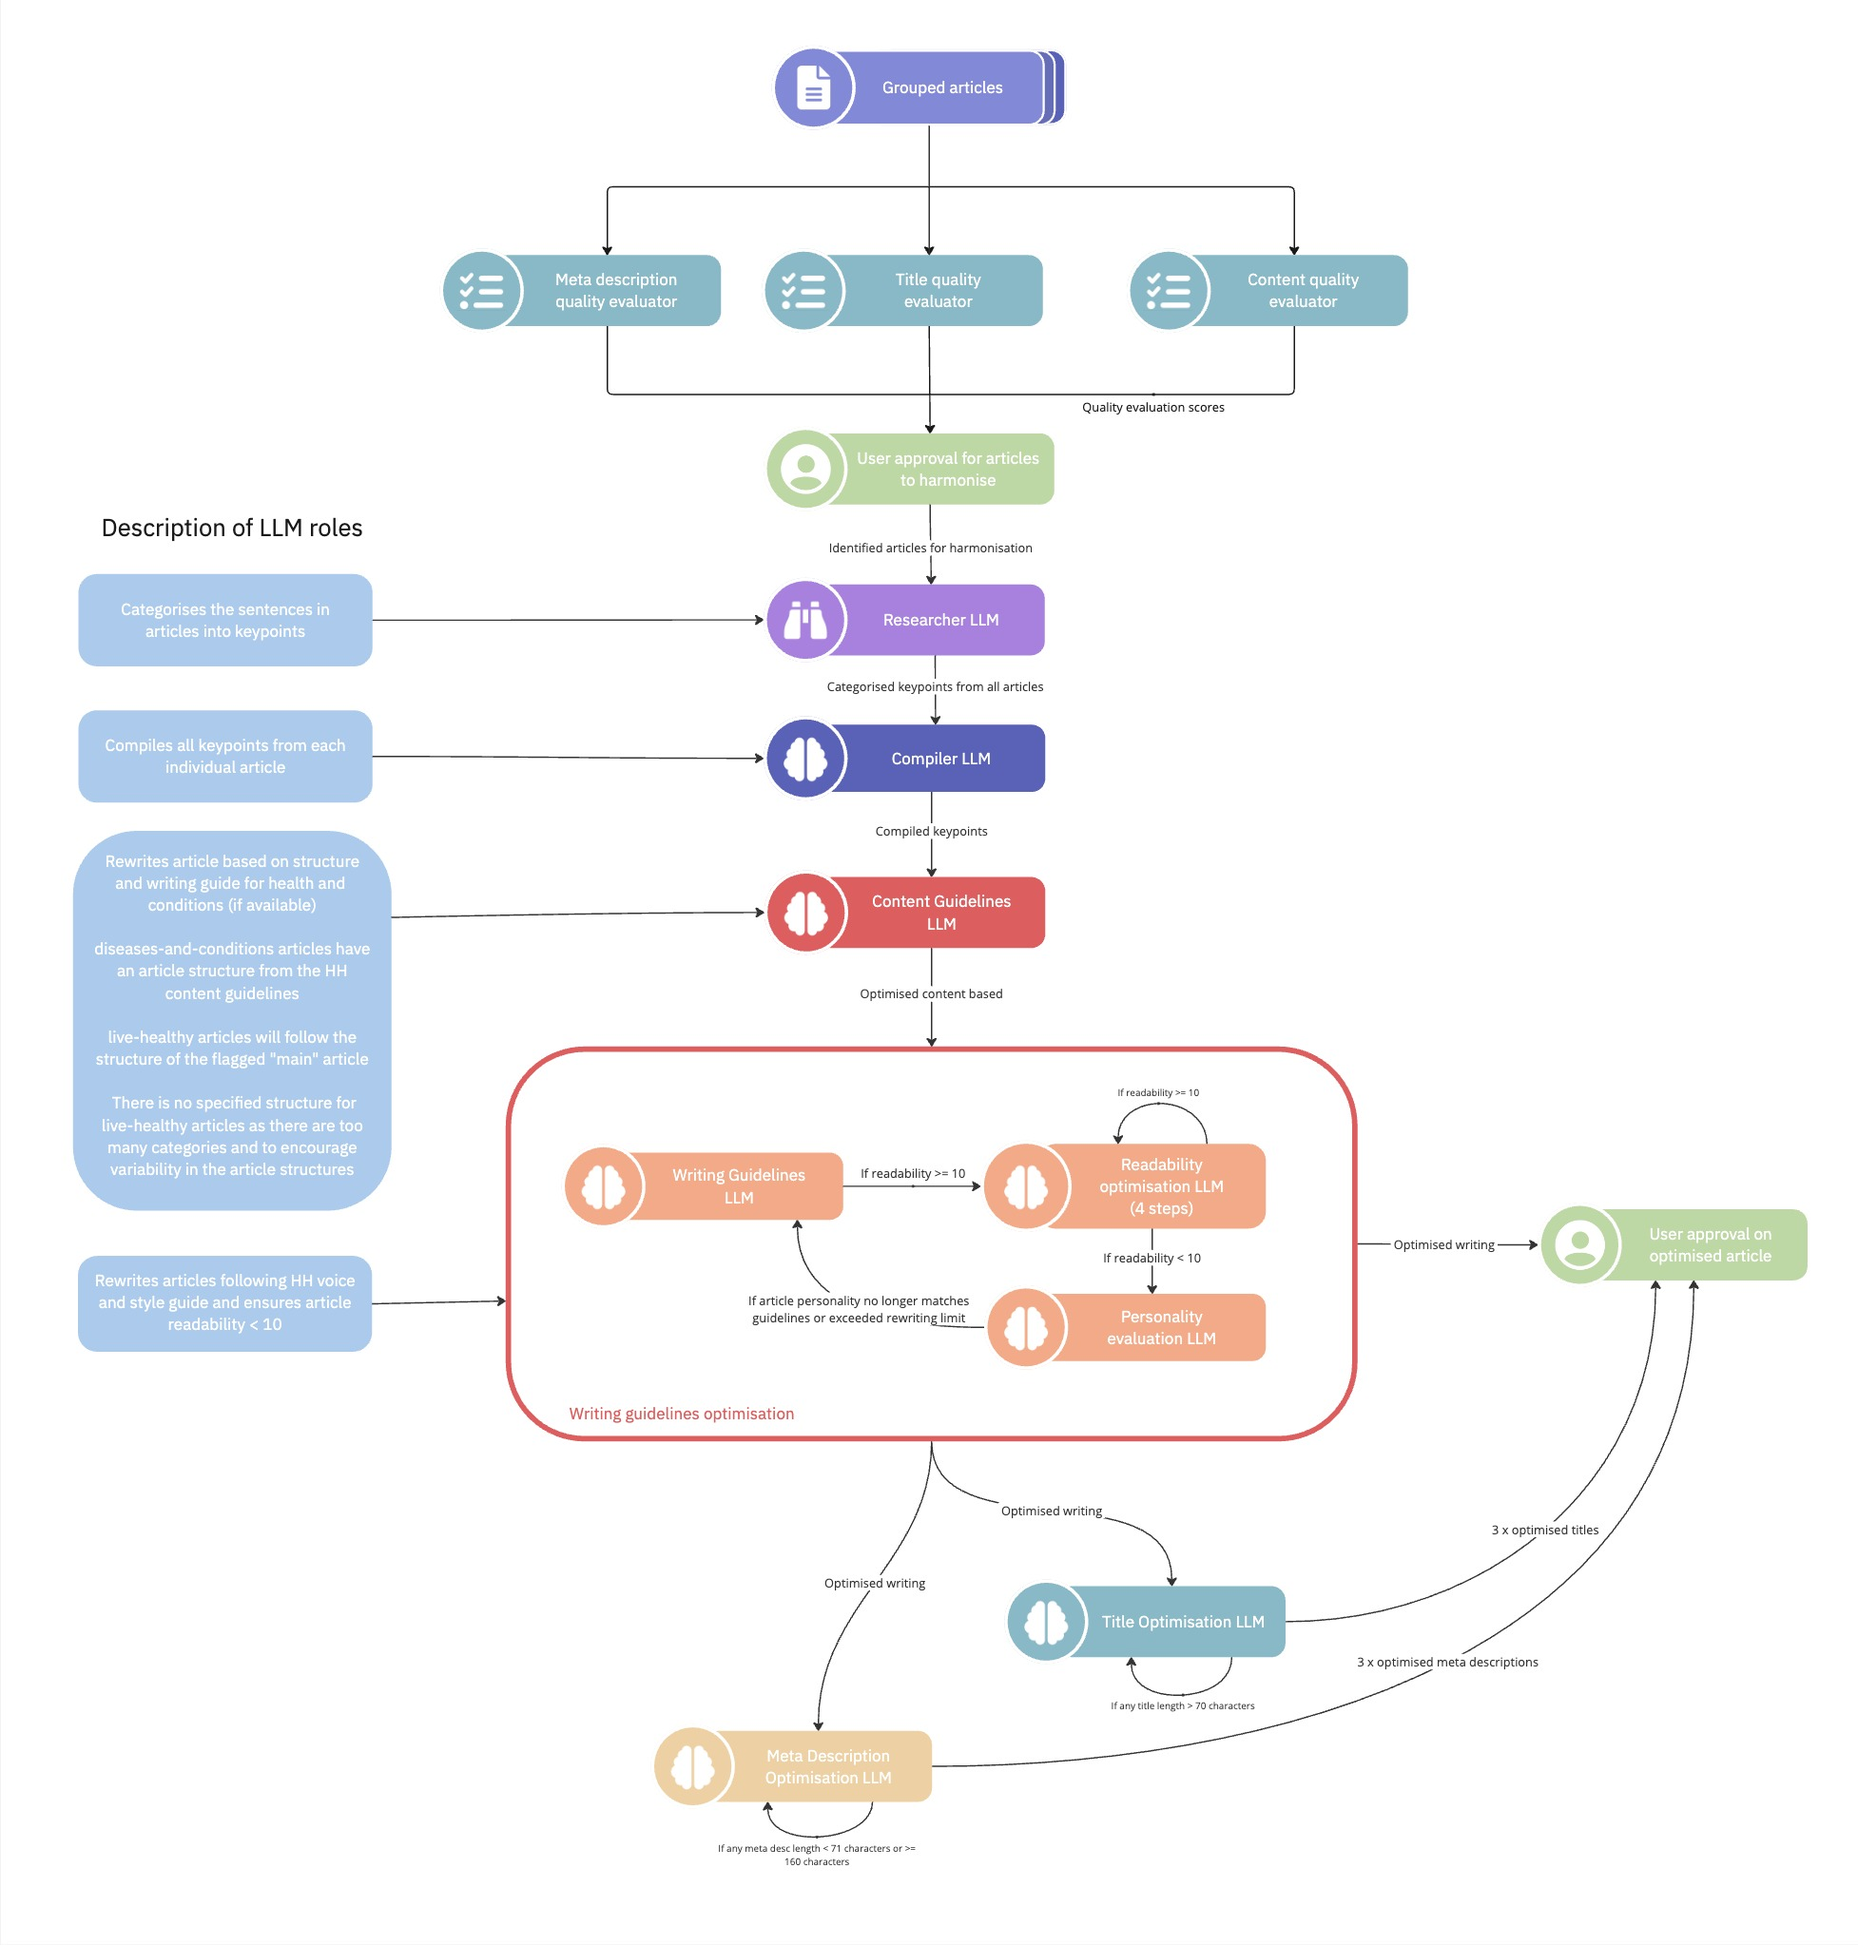
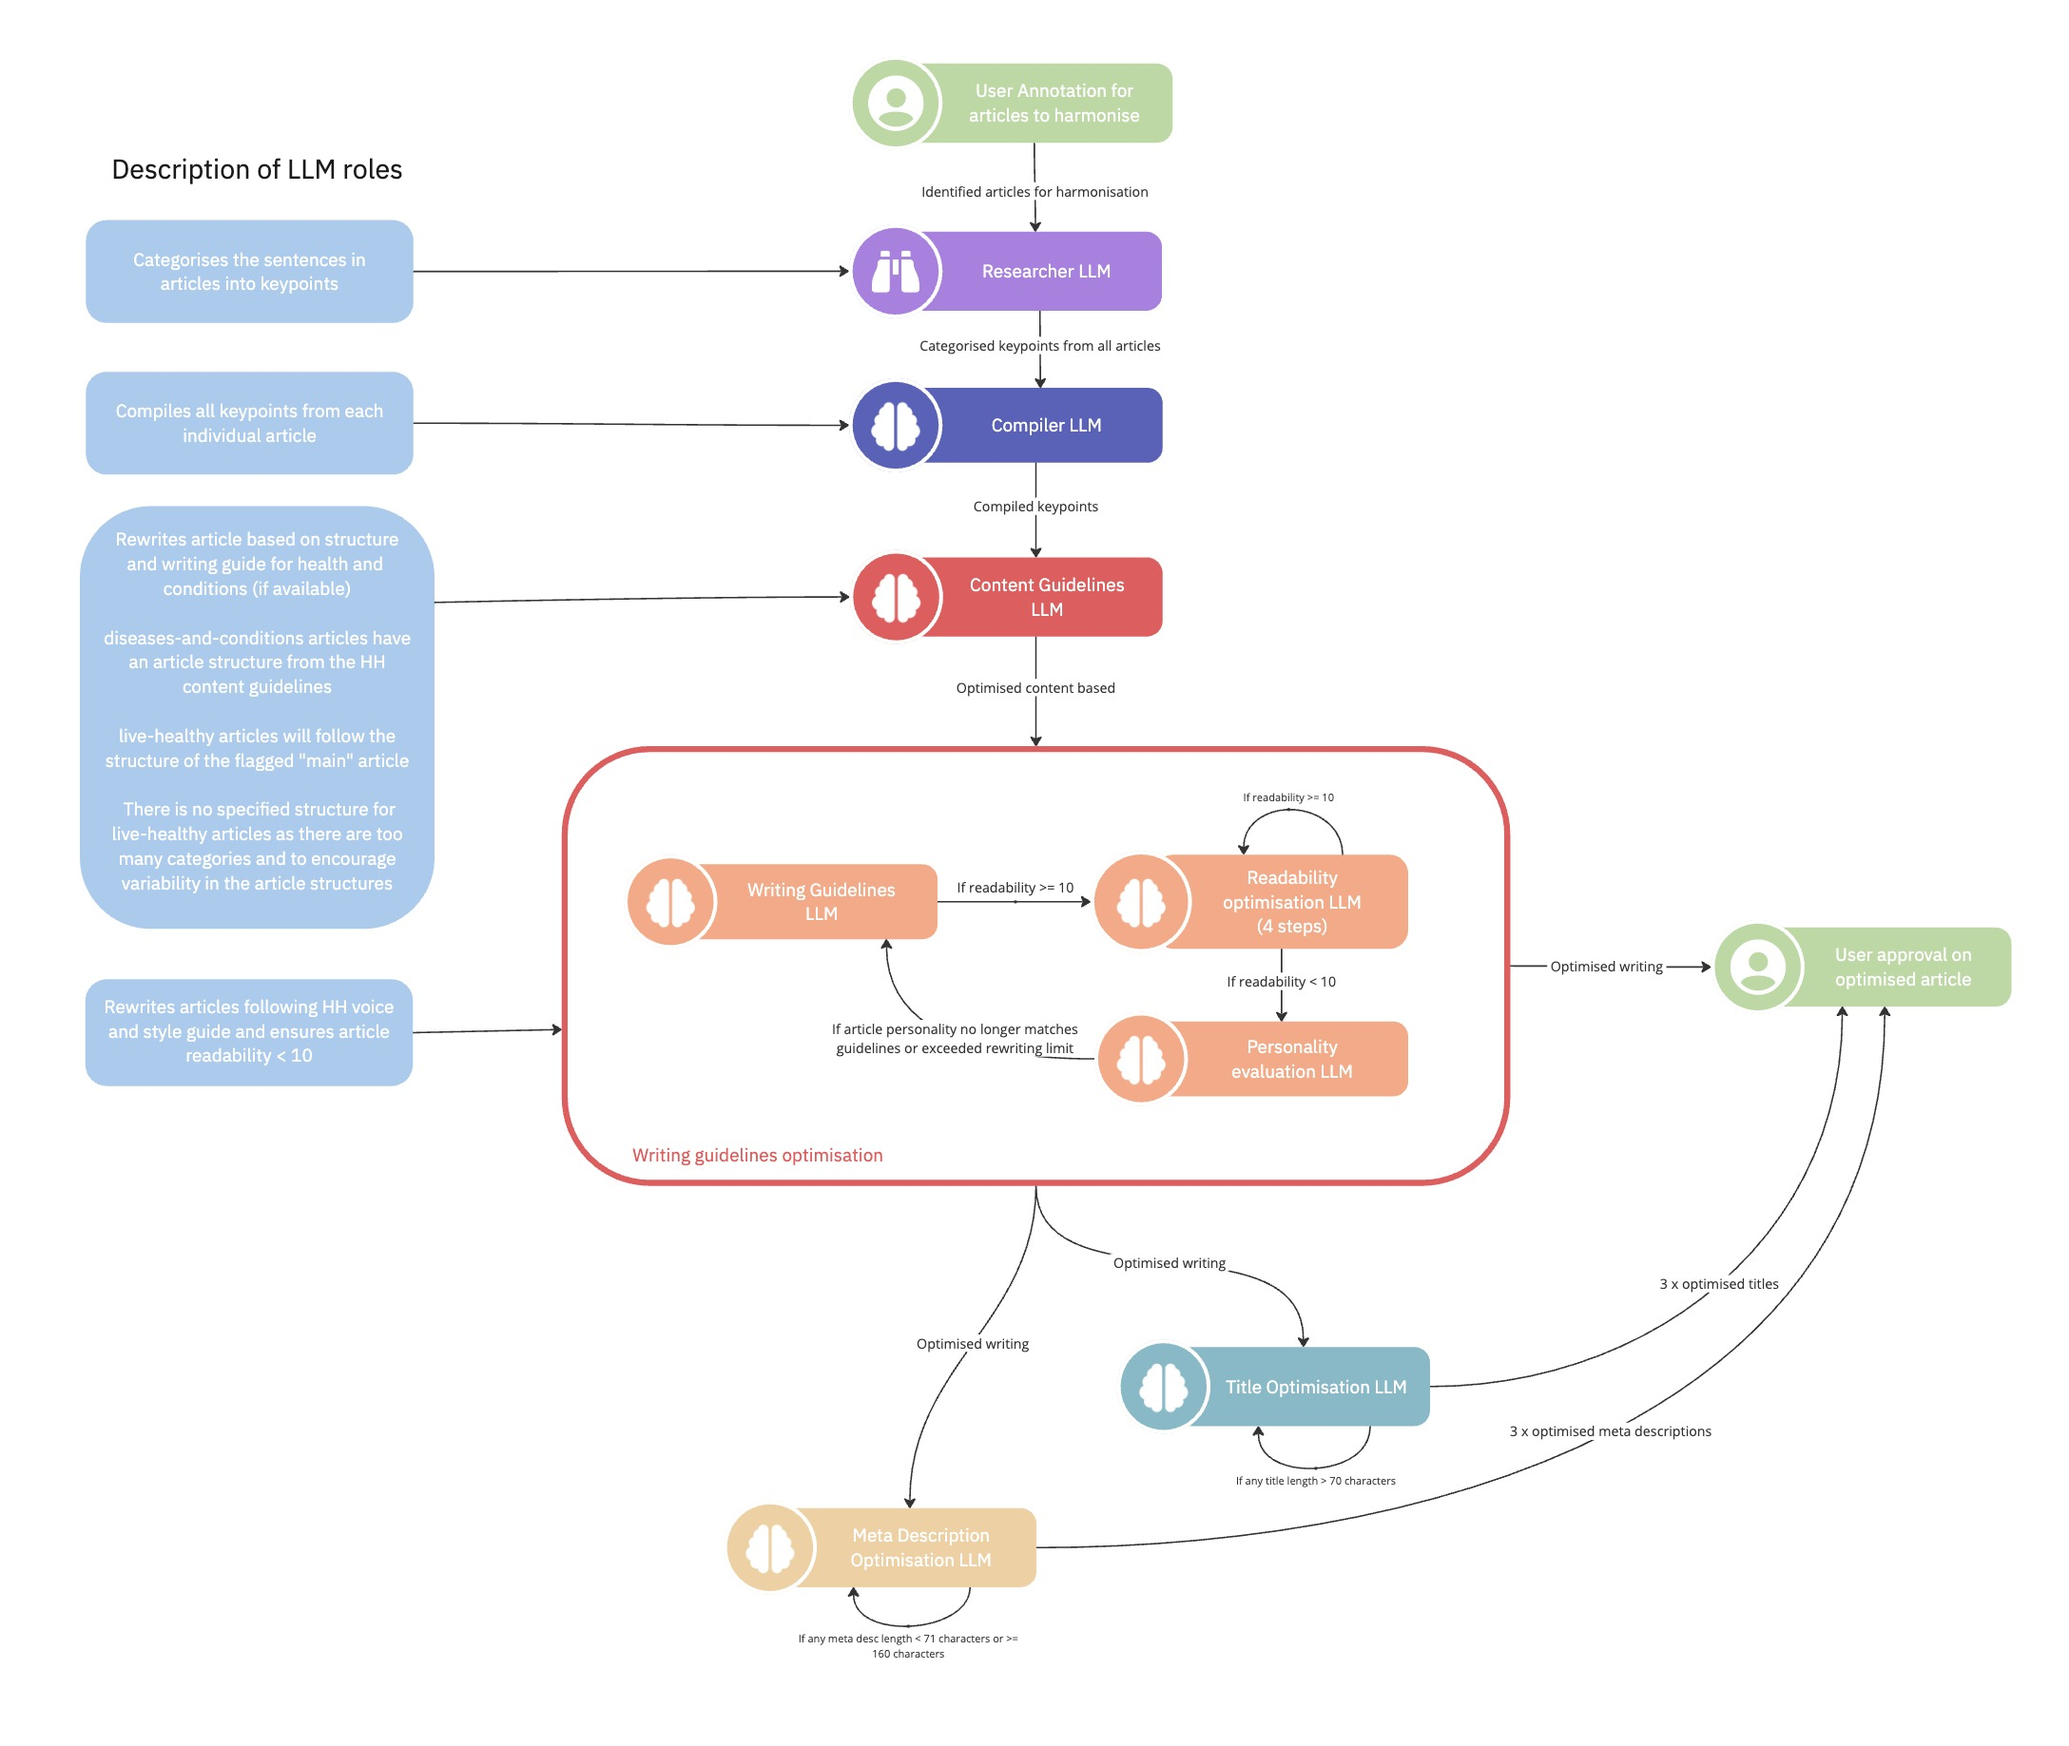
edits

diff --git a/docs/projects/genai/health-hub/content-opt-and-harm/article-generation/article_harmonisation_intro.md b/docs/projects/genai/health-hub/content-opt-and-harm/article-generation/article_harmonisation_intro.md
@@ -6,31 +6,27 @@
 
 **Article harmonisation** refers to the process of harmonising (combining) a group of articles. Articles in the same cluster can be marked for harmonisation, which will lead them to undergo the article harmonisation process. Article harmonisation will optimise all 4 article categories: article content, writing, title and meta description.
 
-The article harmonisation process is largely similar to that of article optimisation, with several exceptions. As such, the description for the article harmonisation process will take reference to the article optimisation process above.
+The article harmonisation process is largely similar to that of article optimisation, with several exceptions. As such, the description for the article harmonisation process will take reference to the article optimisation process.
 
 The article harmonisation process is as follows:
 
 ---
 
-Step 1 **Article Evaluation**: Identical evaluation steps as article optimisation
+Step 1 [**Researcher node**](./article-rewriting-nodes/researcher_node.md): This node is used to process the article content. It checks for irrelevant sentences in the article content and categorises them under a separate section. <br/>
 
 ---
 
-Step 2 [**Researcher node**](./article-rewriting-nodes/researcher_node.md): This node is used to process the article content. It checks for irrelevant sentences in the article content and categorises them under a separate section. <br/>
+Step 2 [**Compiler node**](./article-rewriting-nodes/compiler_node.md): The compiler node compiles the keypoints from each article from the researcher node. It combines identical keypoints between the group of processed article keypoints from the Researcher node.
 
 ---
 
-Step 3 [**Compiler node**](./article-rewriting-nodes/compiler_node.md): The compiler node compiles the keypoints from each article from the researcher node. It combines identical keypoints between the group of processed article keypoints from the Researcher node.
-
----
-
-Step 4 [**Content guidelines optimisation**](./article-rewriting-nodes/content_guidelines_optimisation.md): Under article harmonisation, all articles will undergo content guidelines optimisation irregardless of their content category.
+Step 3 [**Content guidelines optimisation**](./article-rewriting-nodes/content_guidelines_optimisation.md): Under article harmonisation, all articles will undergo content guidelines optimisation irregardless of their content category.
 <br/><br/>
 For `disease-and-conditions` articles, the process of content optimisation is identical to article optimisation. For `live-healthy` articles, the compiled article content will be structured based on the structure of a user annoted "main" article.
 
 ---
 
-Step 5 **Writing optimisation**: Writing optimisation is carried out when the user flags the article for writing optimisation. The writing optimisation process aims to rewrite the article content to fit HealthHub's personality guidelines as well as improving the article's Hemingway readability score until it is less than 10.
+Step 4 **Writing optimisation**: Writing optimisation is carried out when the user flags the article for writing optimisation. The writing optimisation process aims to rewrite the article content to fit HealthHub's personality guidelines as well as improving the article's Hemingway readability score until it is less than 10.
 
 Writing guidelines is a multi-node process, consisting of a feedback loop with the following nodes:
 
@@ -42,10 +38,10 @@ Step 5.3 [**Personality evaluation node**](./article-rewriting-nodes/personality
 
 ---
 
-Step 6 [**Title optimisation**](./article-rewriting-nodes/title_optimisation.md): The title optimisation process involves producing three optimised article titles from the article content. The titles will be optimised based on the HealthHub content playbook guidelines.
+Step 5 [**Title optimisation**](./article-rewriting-nodes/title_optimisation.md): The title optimisation process involves producing three optimised article titles from the article content. The titles will be optimised based on the HealthHub content playbook guidelines.
 
 ---
 
-Step 7 [**Meta description optimisation**](./article-rewriting-nodes/meta_desc_optimisation.md): The meta description optimisation process involves producing three optimised meta description from the article content.
+Step 6 [**Meta description optimisation**](./article-rewriting-nodes/meta_desc_optimisation.md): The meta description optimisation process involves producing three optimised meta description from the article content.
 
 After the article optimisation process has been completed, the optimised output will be stored in the User Annotation Excel file for users to review.

diff --git a/docs/projects/genai/health-hub/content-opt-and-harm/index.md b/docs/projects/genai/health-hub/content-opt-and-harm/index.md
@@ -5,7 +5,7 @@ authors:
   - Jin Chou
 ---
 
-# Introduction
+## Introduction
 
 Our primary objective is to reduce the workload in the manual review process. It aims to identify and optimise the articles across three different areas -
 
@@ -16,12 +16,14 @@ Our primary objective is to reduce the workload in the manual review process. It
 ## Workflow
 
 ### Optimisation Workflow
-
 ![Optimisation Checks & Rewriting Workflow](./images/article_optimisation_flow.jpg)
 For individual articles, the initial steps of the Article Rewriting Workflow is to evaluate the quality of the article based on its content, title and meta description. We utilise both Rules, Statistics and Large Language Models (LLMs) to perform these evaluations.
 Then, these evaluations are later shared to the users for approval/refinement. Finally, the selected articles (together with their evaluations) are passed down to the `Article Optimisation Flow` to refine and optimise the articles.
 
 ### Harmonisation Workflow
+![Article Harmonisation Workflow](./images/article_harmonisation_flow.jpg)
+For grouped articles, the user will annotate articles to harmonise in the User Annotation Excel file. Following that, these artilces will undergo Article Harmonisation.
+
 
 ## Project Setup
 
@@ -29,5 +31,11 @@ Then, these evaluations are later shared to the users for approval/refinement. F
 
 1. Go to the [Step 1 Harmonisation and Optimisation Checks](https://drive.google.com/drive/folders/1ywUNxLDkNLVaYlawjZrz8CX_fKbf5joz) subdirectory within [User Annotation](https://drive.google.com/drive/folders/1kuTAWvOvBRAVP0wmJIjIXdTP9X77j3lI) directory.
 2. Fetch the `ids_for_optimisation.csv` file and add it into the `data` subdirectory in the `article-harmonisation` project.
+3. Migrate the `merged_data.parquet` from the Kedro Pipeline stored in `content-optimization/data/03_primary` directory.
+4. Refer to the `README.md` in `article-harmonisation` to run the project.
+
+### Setting up for Article Rewriting
+1. Go to the [Step 1 Harmonisation and Optimisation Checks](https://drive.google.com/drive/folders/1ywUNxLDkNLVaYlawjZrz8CX_fKbf5joz) subdirectory within [User Annotation](https://drive.google.com/drive/folders/1kuTAWvOvBRAVP0wmJIjIXdTP9X77j3lI) directory.
+2. Download [Stage 1 user annotation for HPB_sample.xlsx](https://docs.google.com/spreadsheets/d/1-cSXf1ZWmi_p6nr_lCfGl0_F6XSnWpvn/edit?usp=drive_link) and store it in `article-harmonisation/data/article_rewriting/` in the `article-harmonisation` project.
 3. Migrate the `merged_data.parquet` from the Kedro Pipeline stored in `content-optimization/data/03_primary` directory.
 4. Refer to the `README.md` in `article-harmonisation` to run the project.

diff --git a/docs/projects/genai/health-hub/content-opt-and-harm/article-generation/article-rewriting-nodes/readability_optimisation.md b/docs/projects/genai/health-hub/content-opt-and-harm/article-generation/article-rewriting-nodes/readability_optimisation.md
@@ -43,7 +43,8 @@ Apart from penalizing long sentences, the Hemingway Scoring system also penalize
 After completing all the readability optimisation steps, a new readability score will be calculated for the new readability optimised article and updated in the state.
 
 !!!Note
-Do note that the number of rewriting tries increases by 1 whenever the article content undergoes readability optimisation. The maximum number of tries for optimising the readability of the article is set to be 3. If the number of rewriting tries exceeds the limit, the graph state will not undergo readability optimisation and instead move on to the next optimisation node.
+
+    Do note that the number of rewriting tries increases by 1 whenever the article content undergoes readability optimisation. The maximum number of tries for optimising the readability of the article is set to be 3. If the number of rewriting tries exceeds the limit, the graph state will not undergo readability optimisation and instead move on to the next optimisation node.
 
 ## 4. Additional Resources for the Readability Optimisation Node
 

diff --git a/docs/projects/genai/health-hub/content-opt-and-harm/article-generation/article_content_preprocessing.md b/docs/projects/genai/health-hub/content-opt-and-harm/article-generation/article_content_preprocessing.md
@@ -6,7 +6,7 @@ authors:
 
 <center><h2><p>Article Content Preprocessing</p></h2></center>
 
-# 1. Introduction
+## 1. Introduction
 
 This section will be covering the preprocessing step for an article content before it is processed by the researcher node. The preprocessing is conducted by a rule-based function. All article content will need to undergo this step before being processed by the researcher node.
 
